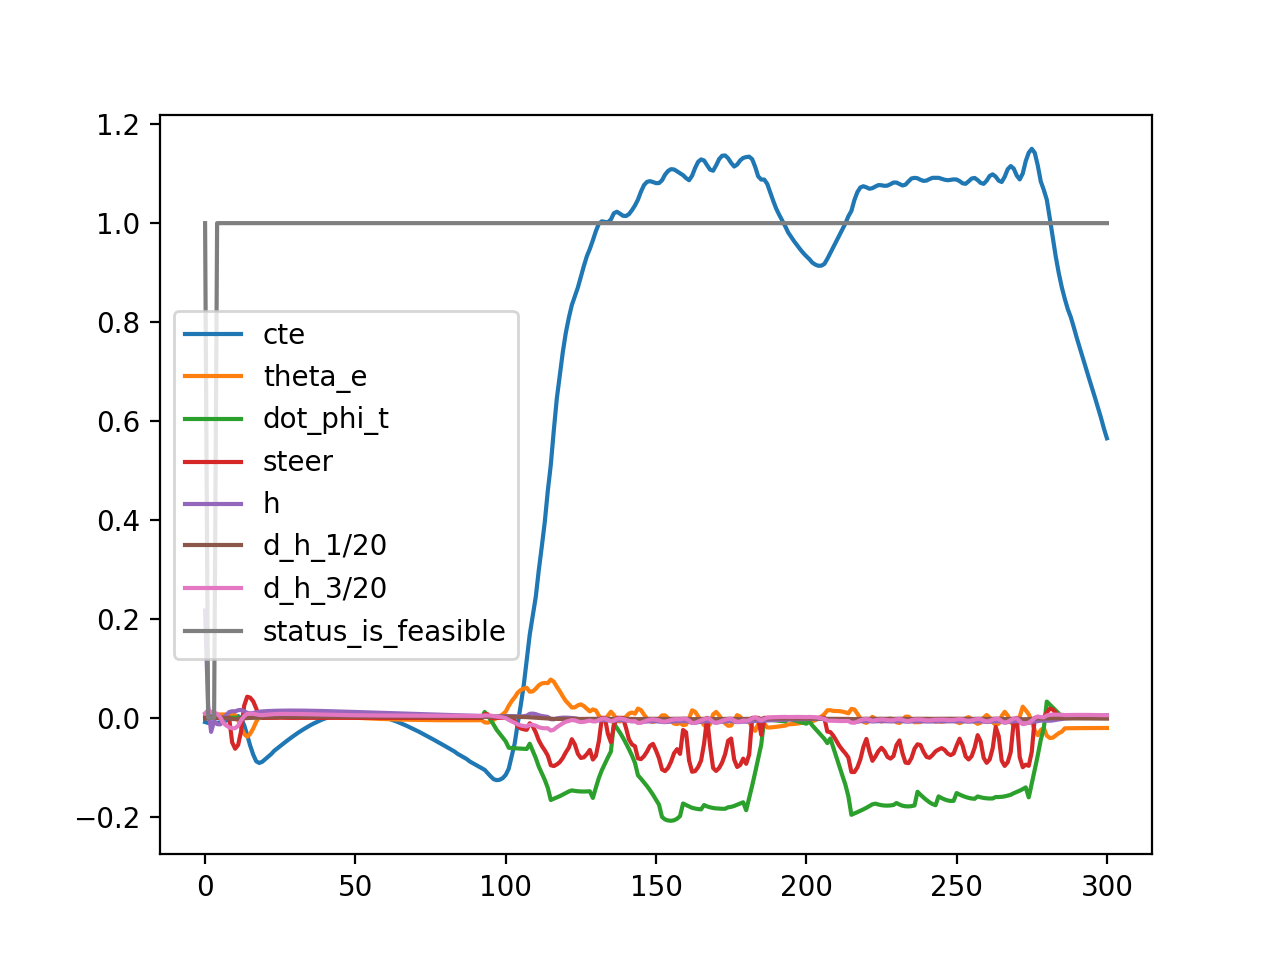
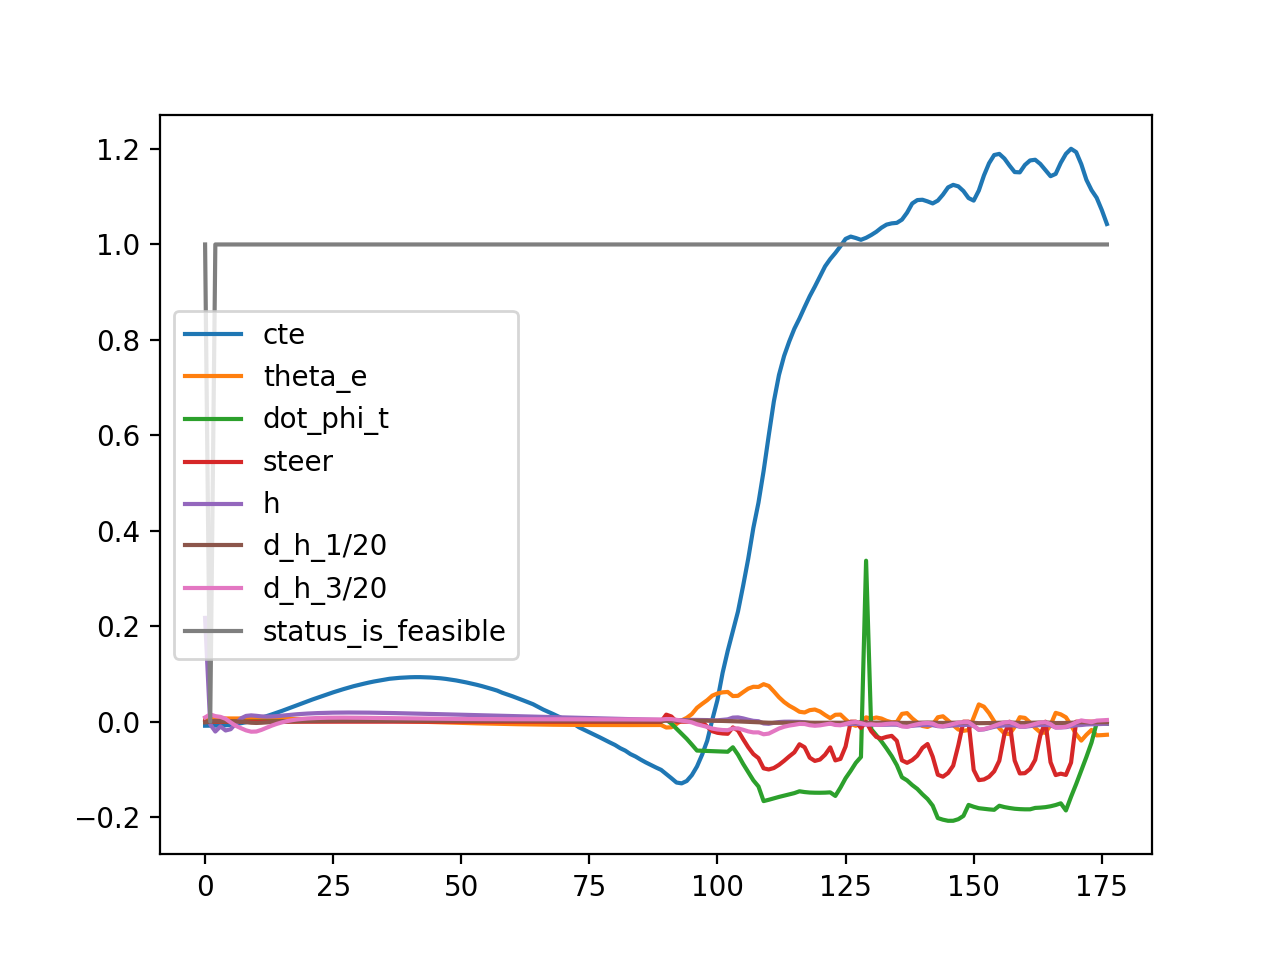
update server codes

diff --git a/carla/automatic_control_state_based_cbf_train_location_server_version.py b/carla/automatic_control_state_based_cbf_train_location_server_version.py
@@ -52,7 +52,12 @@ except IndexError:
     print("now")
     pass
 
-sys.path.append(glob.glob('../../../carla/dist/carla-0.9.9-py3.7-linux-x86_64.egg')[0])
+OUTPUT_PATH = 'state_based_cbf_resulting_trajectory.png'
+DISPLAY = False
+ADD_PATH = True
+
+if ADD_PATH:
+    sys.path.append(glob.glob('../../../carla/dist/carla-0.9.9-py3.7-linux-x86_64.egg')[0])
 
 # ==============================================================================
 # -- Add PythonAPI for release mode --------------------------------------------
@@ -733,14 +738,18 @@ def game_loop(args):
         client = carla.Client(args.host, args.port)
         client.set_timeout(10.0)
 
-        # display = pygame.display.set_mode(
-        #     (args.width, args.height),
-        #     pygame.HWSURFACE | pygame.DOUBLEBUF)
+        if DISPLAY:
+            display = pygame.display.set_mode(
+                (args.width, args.height),
+                pygame.HWSURFACE | pygame.DOUBLEBUF)
 
         hud = HUD(args.width, args.height)
         print(client.get_available_maps())
         world = World(client.load_world('Town06'), hud, args,
                       initial_position_array[0], initial_position_array[1], initial_position_array[2])
+        # settings = world.world.get_settings()
+        # settings.fixed_delta_seconds = 0.015
+        # world.world.apply_settings(settings)
         controller = KeyboardControl(world)
 
         agent = RoamingAgent(world.player)
@@ -759,8 +768,9 @@ def game_loop(args):
             world.world.wait_for_tick(10.0)
 
             world.tick(clock)
-            # world.render(display)
-            # pygame.display.flip()
+            if DISPLAY:
+                world.render(display)
+                pygame.display.flip()
 
             # calculate state information of our vehicle
             location = world.player.get_transform()
@@ -841,7 +851,10 @@ def game_loop(args):
 
             # calculate steer control from the learned cbf
             steering_wheel_input, h, h_dire, feasible = safe_ctrl(jnp.array([cte, v, theta_e, d]), dot_phi_t)
-            control.steer = np.arctan(steering_wheel_input[0]) / 70 * 180 / PI
+            if v < 5:
+                control.steer = 0
+            else:
+                control.steer = np.arctan(steering_wheel_input[0]) / 70 * 180 / PI
 
             list_cte.append(cte)
             list_theta_e.append(theta_e)
@@ -852,7 +865,7 @@ def game_loop(args):
             list_h_dire_2.append(h_dire[2] / 20)
             list_feasible.append(feasible)
 
-            if len(list_cte) > 300:
+            if world.hud.simulation_time > 30:
                 break
 
             world.player.apply_control(control)
@@ -870,7 +883,7 @@ def game_loop(args):
         plt.plot(list_feasible)
         plt.legend(("cte", "theta_e", "dot_phi_t", "steer", "h", "d_h_1/20", "d_h_3/20", "status_is_feasible"))
         # plt.show()
-        plt.savefig('state_based_cbf_resulting_trajectory.png', dpi=200)
+        plt.savefig(OUTPUT_PATH, dpi=200)
 
         if world is not None:
             world.destroy()
